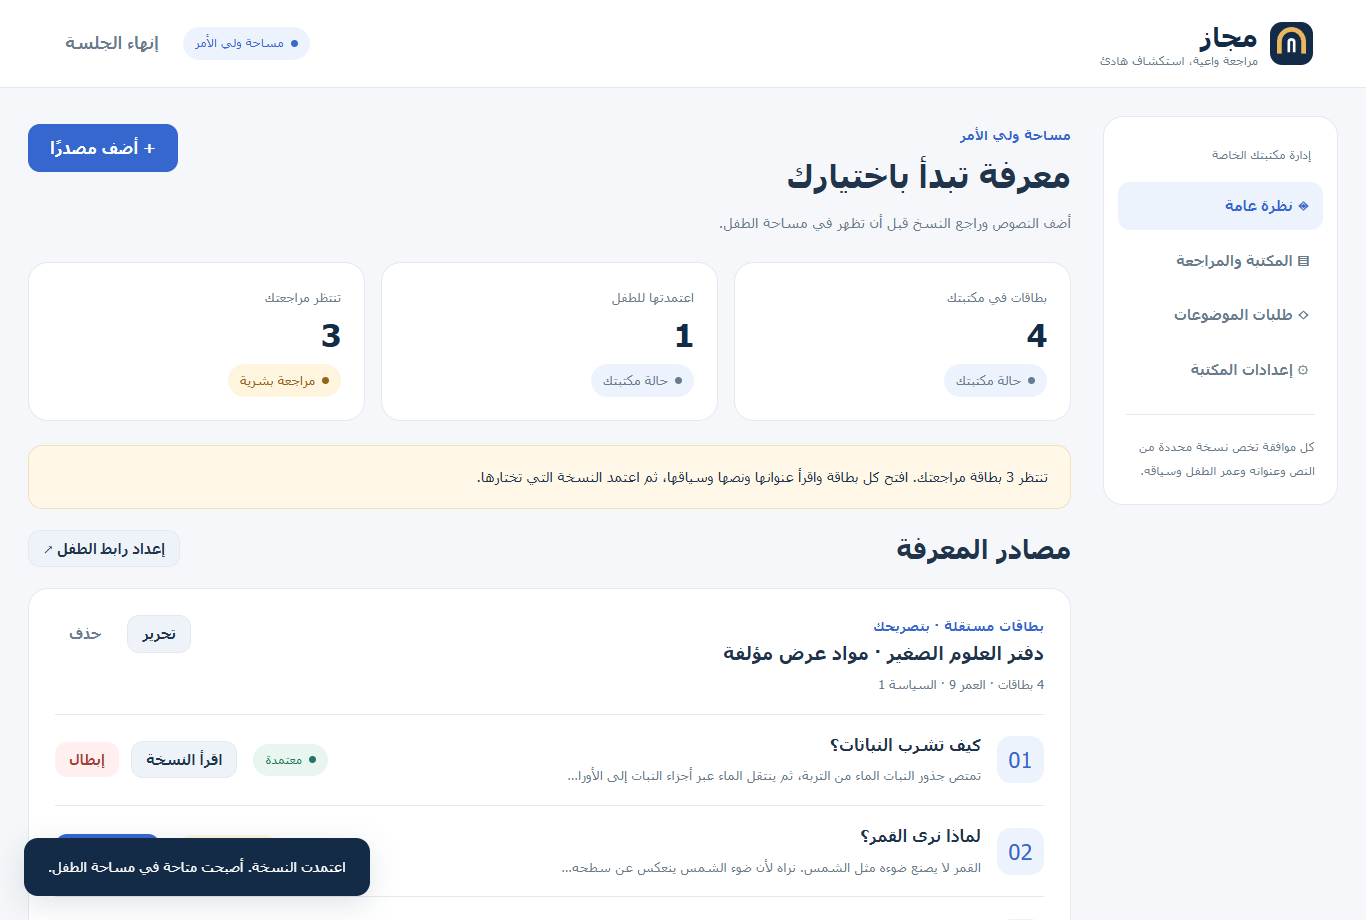
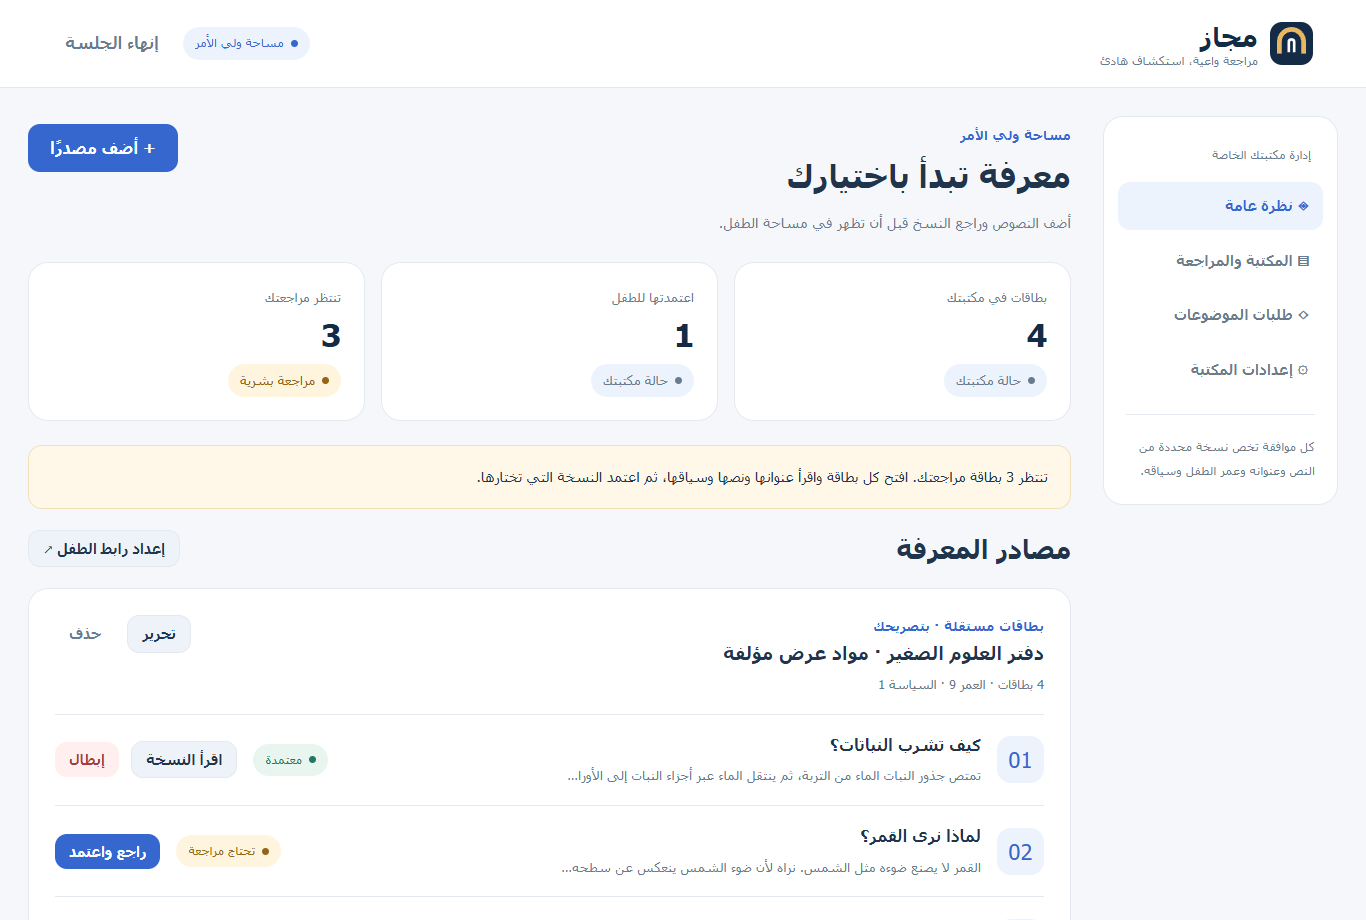
Close review findings and refresh Arabic delivery evidence

Changed region(s): [[0.0, 0.913, 0.2767, 0.9739]]

diff --git a/README.md b/README.md
@@ -2,6 +2,16 @@
 
 مكتبة عربية خاصة للاستكشاف التعليمي: يضيف ولي الأمر النصوص ويقرأ عناوين البطاقات ونصوصها وسياقها ويعتمدها لعمر طفله، ثم يبحث الطفل ويقرأ ويحفظ من المعتمد حاليًا فقط. مواد العرض مؤلفة وليست بيانات استخدام فعلية. القرار البشري بالموافقة لا يثبت أن المحتوى مناسب لكل الأطفال.
 
+## المشكلة والتقييم والاستدامة المقترحة
+
+يربط دليل الجائزة (ص16) التحدي بالتعرض لمحتوى غير مناسب وضعف المرافقة الأسرية. قد يستمر الطفل بدافع الفضول دون بلاغ، واعتماد مادة مرة لا يثبت اعتمادها بعد تغير النص أو السياق. يتيح مجاز مراجعة الوالد قبل الإتاحة داخل بوابة نصية محددة؛ ملاءمتها للأسر وعبء المراجعة يحتاجان تجربة لاحقة.
+
+المستهدف: عدد أخطاء إتاحة غير المعتمد في سيناريوهات الاختبار، ودقائق مراجعة الوالد لإضافة أو تحديث، ونسبة طلبات الطفل التي وفّر لها مادة معتمدة من جميع الطلبات. الأول تقني والآخران لتجربة أسرية لاحقة بموافقة. لا تجربة أطفال أو إثبات ملاءمة لكل الأعمار أو حماية خارج البوابة.
+
+استدامة مقترحة: مكتبة قابلة للتصدير والاستيراد، وصيانة موثقة دون API إلزامي. يُدرس إعداد حزم تعليمية بعد مراجعة مختصة وتجربة عبء الاستخدام. يبقى الاعتماد للوالد، والنشر يحتاج استضافة وحماية؛ لا تمويل سابق.
+
+الواجهة عربية RTL وفُحص عرض 390 بكسل. دعم لوحة المفاتيح وقارئ الشاشة يحتاج تقييمًا إضافيًا؛ لا ادعاء توافق معياري.
+
 ## التشغيل
 
 تحتاج Node.js 22 أو أحدث وnpm. لا تحتاج إلى تثبيت أي حزم، ولا مفتاح ذكاء اصطناعي.
@@ -20,7 +30,7 @@ npm run verify
 
 1. اختر «ابدأ مكتبتك» أو «جرّب مكتبة العرض». يحتوي العرض أربع بطاقات تعليمية مؤلفة، وجميعها غير معتمدة في البداية. احفظ رابط ولي الأمر من النظرة العامة أو الإعدادات؛ من يملك الرابط يملك الصلاحية.
 2. أضف مصدرًا بعنوان وبطاقات. الحد 20 بطاقة و20000 حرف إجماليًا لكل مصدر، و50 مصدرًا للمكتبة. النص المترابط افتراضي؛ الاستقلال يتطلب تصريحك بأن كل بطاقة قائمة بذاتها. لا تُجلب روابط أو مقاطع فيديو.
-3. اضغط «راجع واعتمد» لكل بطاقة. اقرأ العنوان والنص والسياق وأكّد المراجعة للعمر والسياسة. لا توجد موافقة جماعية تلقائية. مصدر العرض يصرح باستقلال بطاقاته المؤلفة؛ المصدر الذي تضيفه يبدأ مترابطًا.
+3. اضغط «راجع واعتمد» لكل بطاقة. اقرأ العنوان والنص والسياق وأكّد المراجعة للعمر والسياسة. لا توجد موافقة جماعية تلقائية. يرسل الاعتماد بصمة المحتوى الذي راجعه الوالد؛ إذا تغيّر النص أو السياق قبل إرساله يرفض الخادم المراجعة القديمة. مصدر العرض يصرح باستقلال بطاقاته المؤلفة؛ المصدر الذي تضيفه يبدأ مترابطًا.
 4. افتح رابط الطفل في نافذة مستقلة. ابحث مثلًا عن «النباتات»، وافتح البطاقة واحفظها. البحث والتصدير والحفظ لا يرسلون أي بطاقة غير معتمدة من الخادم.
 5. أرسل موضوعًا من مساحة الطفل مع تأكيد إرساله إلى ولي الأمر. يظهر طلبًا في قائمته؛ لا يولّد إجابة أو يجلب محتوى خارجيًا. مراجعة الطلب لا تعني تلبية الموضوع.
 6. عدّل نص البطاقة أو عنوانها. يعرض مربع المراجعة النسخة السابقة والحالية. النص المترابط يحتاج موافقة جديدة لكل بطاقاته؛ في الاستقلال المصرّح به تبقى موافقات البطاقات الأخرى ما لم يتغير عنوان المصدر أو العمر أو السياسة.
@@ -127,4 +137,4 @@ flowchart LR
 
 ![واجهة الجوال](docs/screenshots/final-mobile.png)
 
-تحقق المنسق من 19 اختبارًا ناجحًا دون احتساب نسخ dist، ومن رحلة المتصفح والتصدير والعرض بعرض 390px دون أخطاء JavaScript أو تجاوز أفقي. الأدلة في `docs/coordinator-final-tests.txt` و`docs/coordinator-browser-qa.json`. حالات التجربة مؤلفة ولا تمثل أثرًا اجتماعيًا مقاسًا.
+تحقق المنسق من 21 اختبارًا ناجحًا دون احتساب نسخ dist، ومن رحلة المتصفح والتصدير والعرض بعرض 390px دون أخطاء JavaScript أو تجاوز أفقي. الأدلة في `docs/coordinator-final-tests.txt` و`docs/coordinator-browser-qa.json`. حالات التجربة مؤلفة ولا تمثل أثرًا اجتماعيًا مقاسًا.
